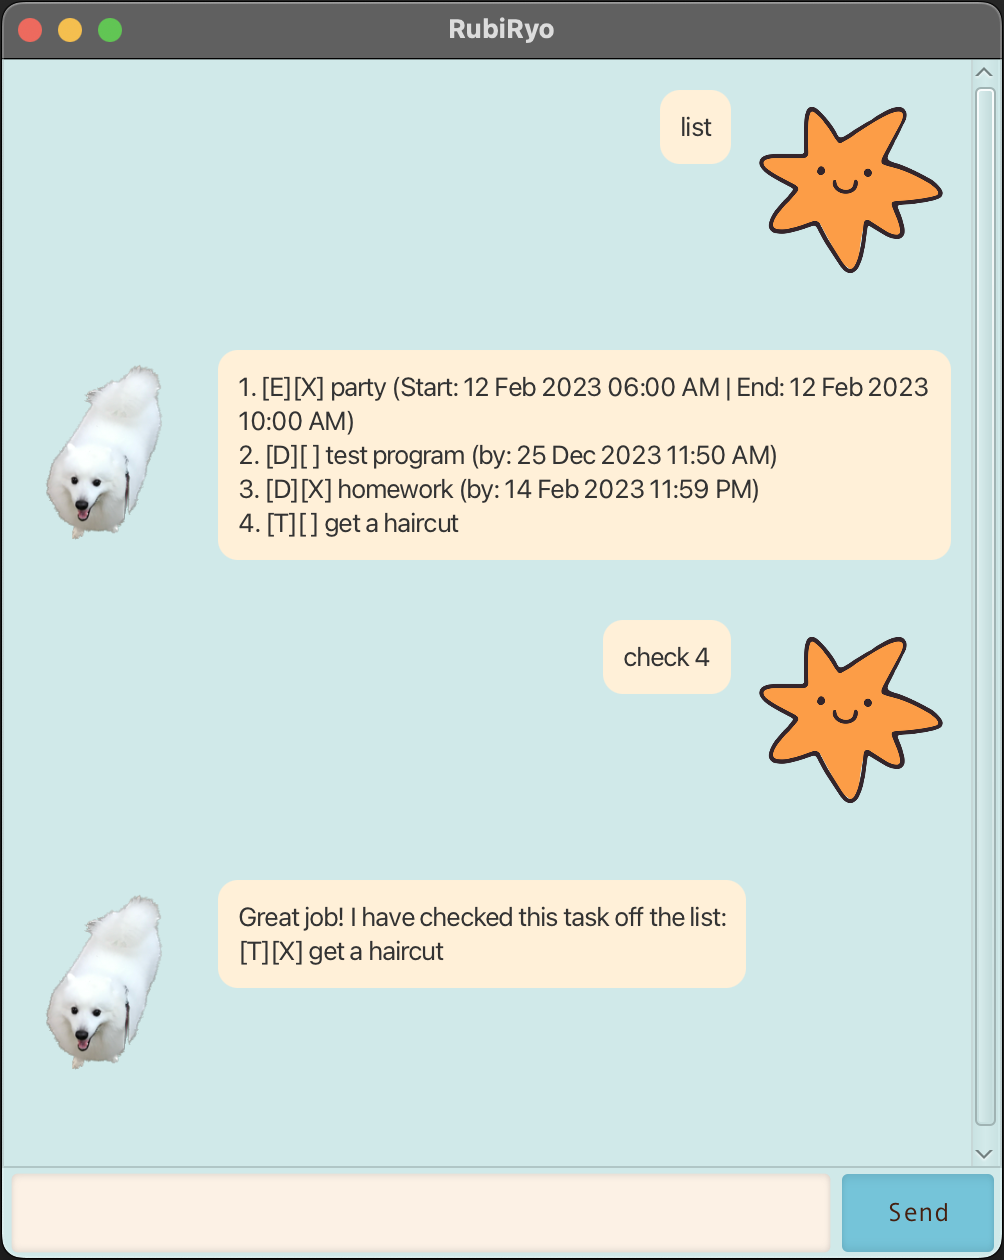
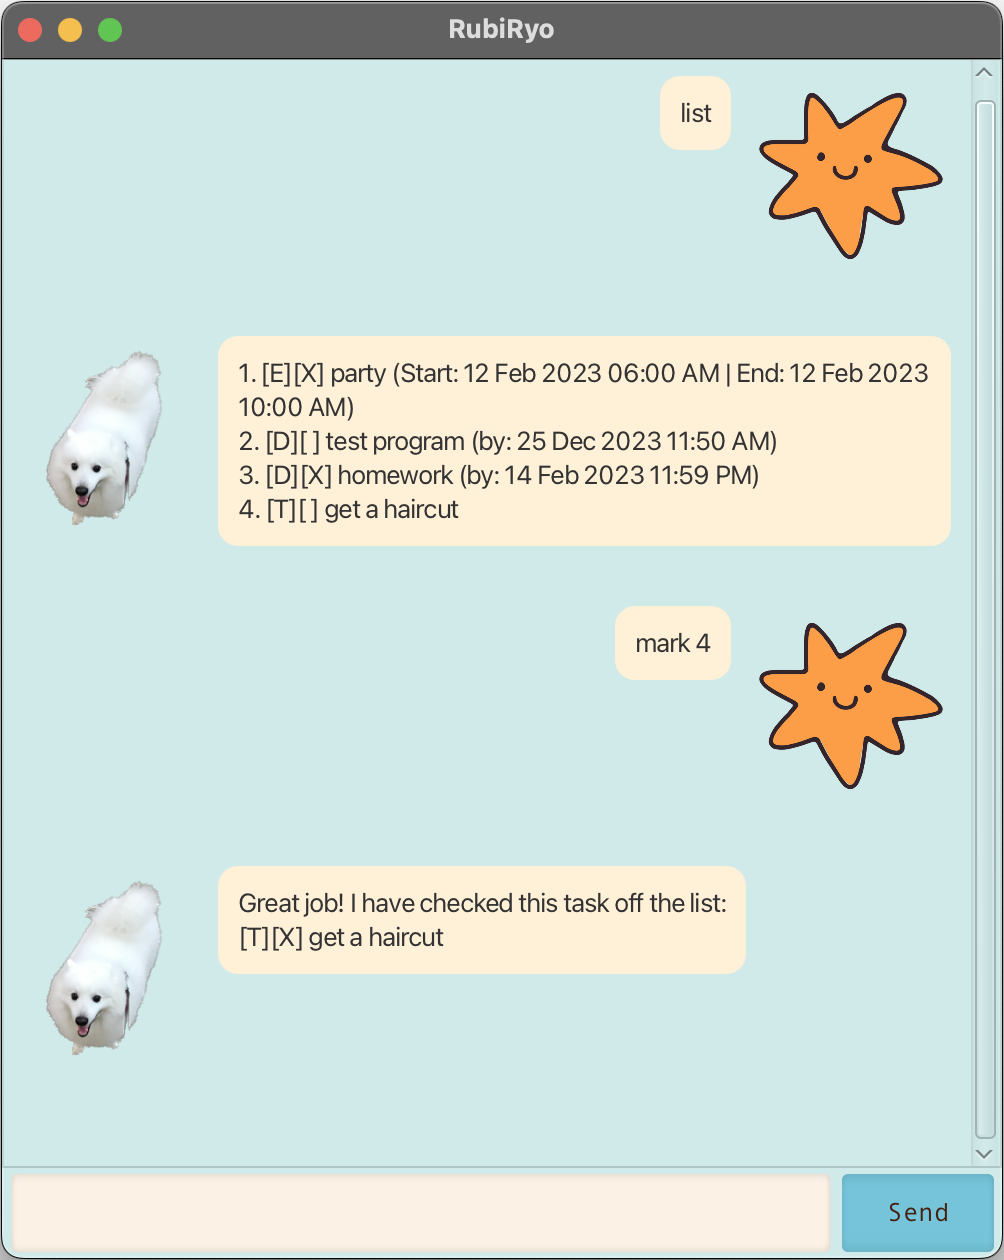
Minor tweak to UI screenshot

diff --git a/src/main/java/util/Parser.java b/src/main/java/util/Parser.java
@@ -47,9 +47,9 @@ public class Parser {
                 return new ByeCommand(fileManager);
             case "find":
                 return new FindCommand(inputArr[1]);
-            case "check":
+            case "mark":
                 return new MarkCommand(inputArr[1]);
-            case "uncheck":
+            case "unmark":
                 return new UnmarkCommand(inputArr[1]);
             case "delete":
                 return new DeleteCommand(inputArr[1]);
